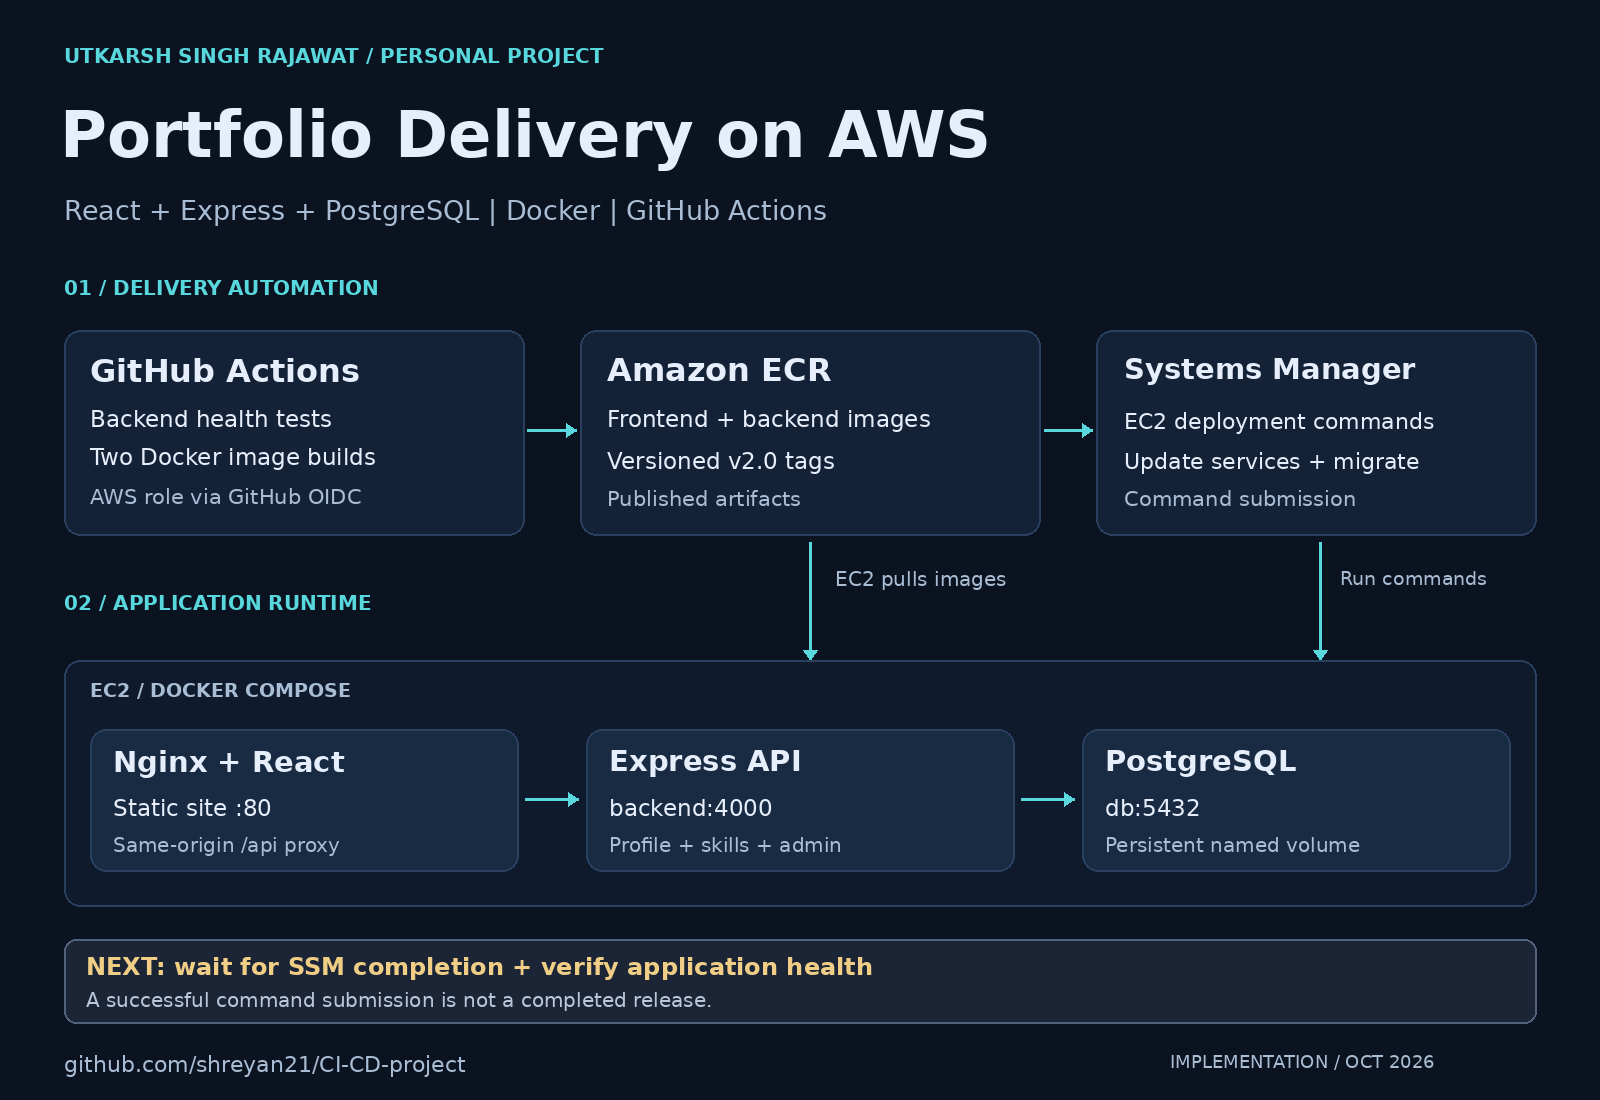
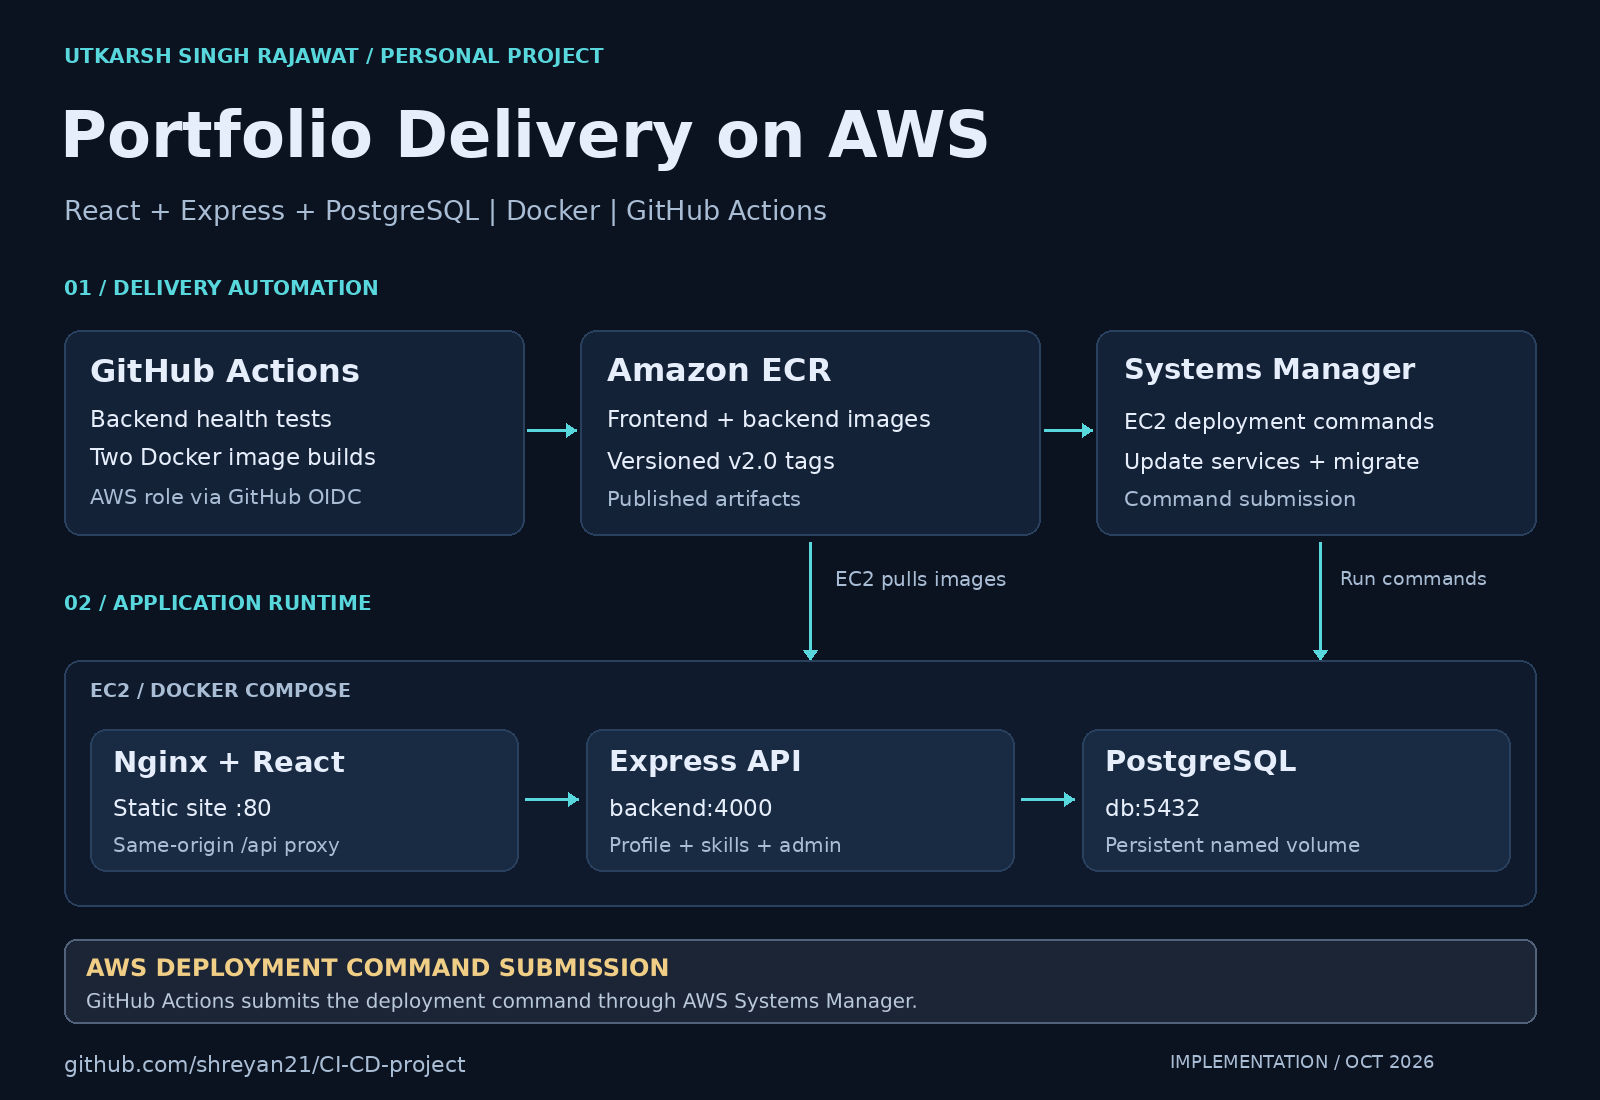
Submit EC2 deployment commands without polling [skip ci]

Changed region(s): [[0.0625, 0.8655, 0.5625, 0.9273]]

diff --git a/README.md b/README.md
@@ -15,10 +15,10 @@ I built a React, Express and PostgreSQL portfolio, containerized it with Docker 
 - **Application delivery:** one personally built product, two application images and a persistent PostgreSQL database.
 - **Container networking:** Nginx forwards browser requests from `/api/` to `backend:4000`; Express connects to `db:5432`.
 - **AWS authentication:** GitHub OIDC assumes an IAM role for the workflow; no long-lived AWS access-key inputs are configured in the workflow.
-- **Automation:** a push to `master` runs three backend health tests, builds both images, publishes to ECR and sends EC2 deployment commands through SSM, applies migrations and waits for the command result.
+- **Automation:** a push to `master` runs backend tests, builds both images, publishes to ECR and submits EC2 deployment commands through SSM. The remote commands update the application containers and run database migrations.
 - **Troubleshooting:** the health endpoint checks the database; its tests cover success, failure and recovery. The UI marks fallback data when live API requests fail.
 
-**Evidence boundary:** the linked historical Actions run verifies tests, both image pushes and SSM command submission. The current workflow waits for SSM completion and prints its result. It does not automatically check HTTP application health afterward. See the [evidence record](docs/evidence.md).
+The linked historical Actions run records tests, both image pushes and SSM command submission. See the [evidence record](docs/evidence.md).
 
 ## Application architecture
 
@@ -37,7 +37,7 @@ The public page reads profile, skills, experience and certifications through the
 | Frontend | React + Vite; static build served by Nginx; SPA routing and `/api/` reverse proxy |
 | API | Node.js + Express; validation, request limits, PostgreSQL queries and `/health` |
 | Data | Four versioned migrations, guarded/conflict-safe seed inserts, named Docker volume |
-| CI/CD | GitHub Actions on `master`; backend tests, image builds, ECR publishing and SSM deployment with command results |
+| CI/CD | GitHub Actions on `master`; backend tests, image builds, ECR publishing and EC2 deployment command submission through SSM |
 | AWS | ECR image registry; deployment target is an existing EC2 host with SSM |
 
 ## Run locally
@@ -133,11 +133,10 @@ The frontend build also runs inside its Dockerfile during CI. The backend Docker
 
 ## Next engineering improvements
 
-1. Add simple automated HTTP checks after deployment when needed; verify browser/admin and external availability separately.
-2. Publish immutable commit-SHA image tags and retain a tested rollback target; current `v2.0` tags are reused.
-3. Restrict database/API exposure, pin runtime/database versions, align Node versions and use HTTPS.
-4. Add real PostgreSQL integration coverage and pull-request checks.
-5. Extend this same project with Terraform, monitoring, tested rollback and backup/restore evidence.
+1. Publish immutable commit-SHA image tags and retain a tested rollback target. The current `v2.0` tags are reused.
+2. Restrict database/API exposure, pin runtime/database versions, align Node versions and use HTTPS.
+3. Add real PostgreSQL integration coverage and pull-request checks.
+4. Extend this same project with Terraform, monitoring, tested rollback and backup/restore evidence.
 
 This is a personal learning project on a single EC2 host, not a highly available service. AWS resources can incur ongoing charges. Environment files have been removed from the current source tree; any real credentials previously committed must still be rotated because Git history retains them.
 

diff --git a/docs/showcase.md b/docs/showcase.md
@@ -8,7 +8,7 @@ Portfolio Delivery on AWS | Docker, GitHub Actions, ECR and EC2
 
 ## LinkedIn Featured / Projects description
 
-Built a React, Express and PostgreSQL portfolio and used it to practise application delivery on AWS. Docker Compose runs Nginx, the API and a persistent database. GitHub Actions tests the backend, builds two images, publishes to ECR through OIDC and submits EC2 deployment commands through AWS Systems Manager. Includes architecture, reproducible setup and linked pipeline evidence. Release-completion checks are the next improvement.
+Built a React, Express and PostgreSQL portfolio and used it to practise application delivery on AWS. Docker Compose runs Nginx, the API and a persistent database. GitHub Actions tests the backend, builds two images, publishes to ECR through OIDC and submits EC2 deployment commands through AWS Systems Manager. Includes architecture, reproducible setup and linked pipeline evidence.
 
 Repository: https://github.com/shreyan21/CI-CD-project
 
@@ -24,8 +24,6 @@ I built a React + Express + PostgreSQL application, then added:
 - A multi-stage frontend image with Nginx serving React and forwarding /api requests to Express.
 - GitHub Actions to run backend health tests, build both application images and publish them to Amazon ECR.
 - GitHub OIDC for AWS authentication and Systems Manager commands to update the containers on EC2 and run migrations.
-
-My biggest takeaway: a green pipeline needs a precise definition. My current workflow confirms that AWS accepted the deployment command; waiting for the remote result and checking application health is the next improvement.
 
 Working through database connections, browser origins and Nginx routing made the architecture much clearer to me than studying each tool separately.
 
@@ -43,7 +41,7 @@ I'm exploring junior Cloud/DevOps and application support opportunities where I 
 | 0:00-0:25 | Portfolio UI and a real `/api/skills` response; check that fallback mode is absent |
 | 0:25-0:50 | Nginx -> Express -> PostgreSQL; explain service names and persistent volume |
 | 0:50-1:20 | Successful Actions run, tests, two image pushes and OIDC configuration |
-| 1:20-1:40 | SSM deployment commands; distinguish submission from remote completion |
-| 1:40-2:00 | One troubleshooting example you can explain, then the next health-verification improvement |
+| 1:20-1:40 | SSM command submission and what the remote commands do on EC2 |
+| 1:40-2:00 | One troubleshooting example involving Nginx, the API or PostgreSQL |
 
 Use the architecture image as the post attachment. Add the repository link to LinkedIn Featured and pin the repository on GitHub. Add a public demo URL only after verifying that the site and API work from outside AWS. The draft is prepared for review; it has not been posted.

diff --git a/docs/deployment.md b/docs/deployment.md
@@ -10,7 +10,7 @@ The frontend Dockerfile runs `npm run build`, then copies the output to Nginx. T
 
 The final workflow step sends `AWS-RunShellScript` directly to EC2. Its commands enter `/home/ubuntu`, log in to ECR, start the database, pull/update the frontend and backend with `docker compose -f docker-compose.yml up -d --pull always --no-deps frontend backend`, then run migrations.
 
-The workflow captures the SSM command ID, waits for its result and prints the output. The AWS CLI waiter has a short built-in limit, so a long image download can time out before the remote command finishes. Automatic HTTP health checks and rollback are not configured.
+The final step logs the SSM command ID once AWS accepts the request. The remaining deployment work runs asynchronously on EC2.
 
 ## Configuration
 
@@ -35,12 +35,11 @@ CI builds the frontend and backend directly from their Dockerfiles and neither r
 
 ## Verification still needed for a complete release claim
 
-- Capture the SSM result, then check the homepage, API and backend `/health` response manually.
 - Verify the public website and browser/admin flow separately. Internal HTTP checks do not verify external access or allowed browser origins.
 - Confirm both running image digests match the intended ECR release. Reused tags alone do not identify a commit.
 - Record a successful migration result and a safe prior-image recovery procedure. Image rollback does not reverse schema migrations.
 
-The existing [`scripts/healthcheck.sh`](../scripts/healthcheck.sh) provides simple manual homepage and API checks. The backend's `/health` endpoint checks PostgreSQL connectivity. The workflow does not run these HTTP checks automatically. Nginx does not currently proxy `/health`.
+For manual troubleshooting, [`scripts/healthcheck.sh`](../scripts/healthcheck.sh) checks the homepage and API. The backend's `/health` endpoint checks PostgreSQL connectivity and is available directly on Express.
 
 ## How EC2 gets the new image
 

diff --git a/docs/evidence.md b/docs/evidence.md
@@ -37,4 +37,4 @@ The owner has run the portfolio on EC2. The previously supplied public address w
 
 ## Add the next proof
 
-Capture one remote SSM result with `Success`, matching running image digests and healthy API responses. A short demo should show the website, a source change, the workflow, the resulting release and a database-backed response. Redact secrets and admin cookies from all recordings.
+A short demo can show the website, a source change, the workflow and a database-backed response. Record the running image digests to connect the demo to the release. Redact secrets and admin cookies from all recordings.
